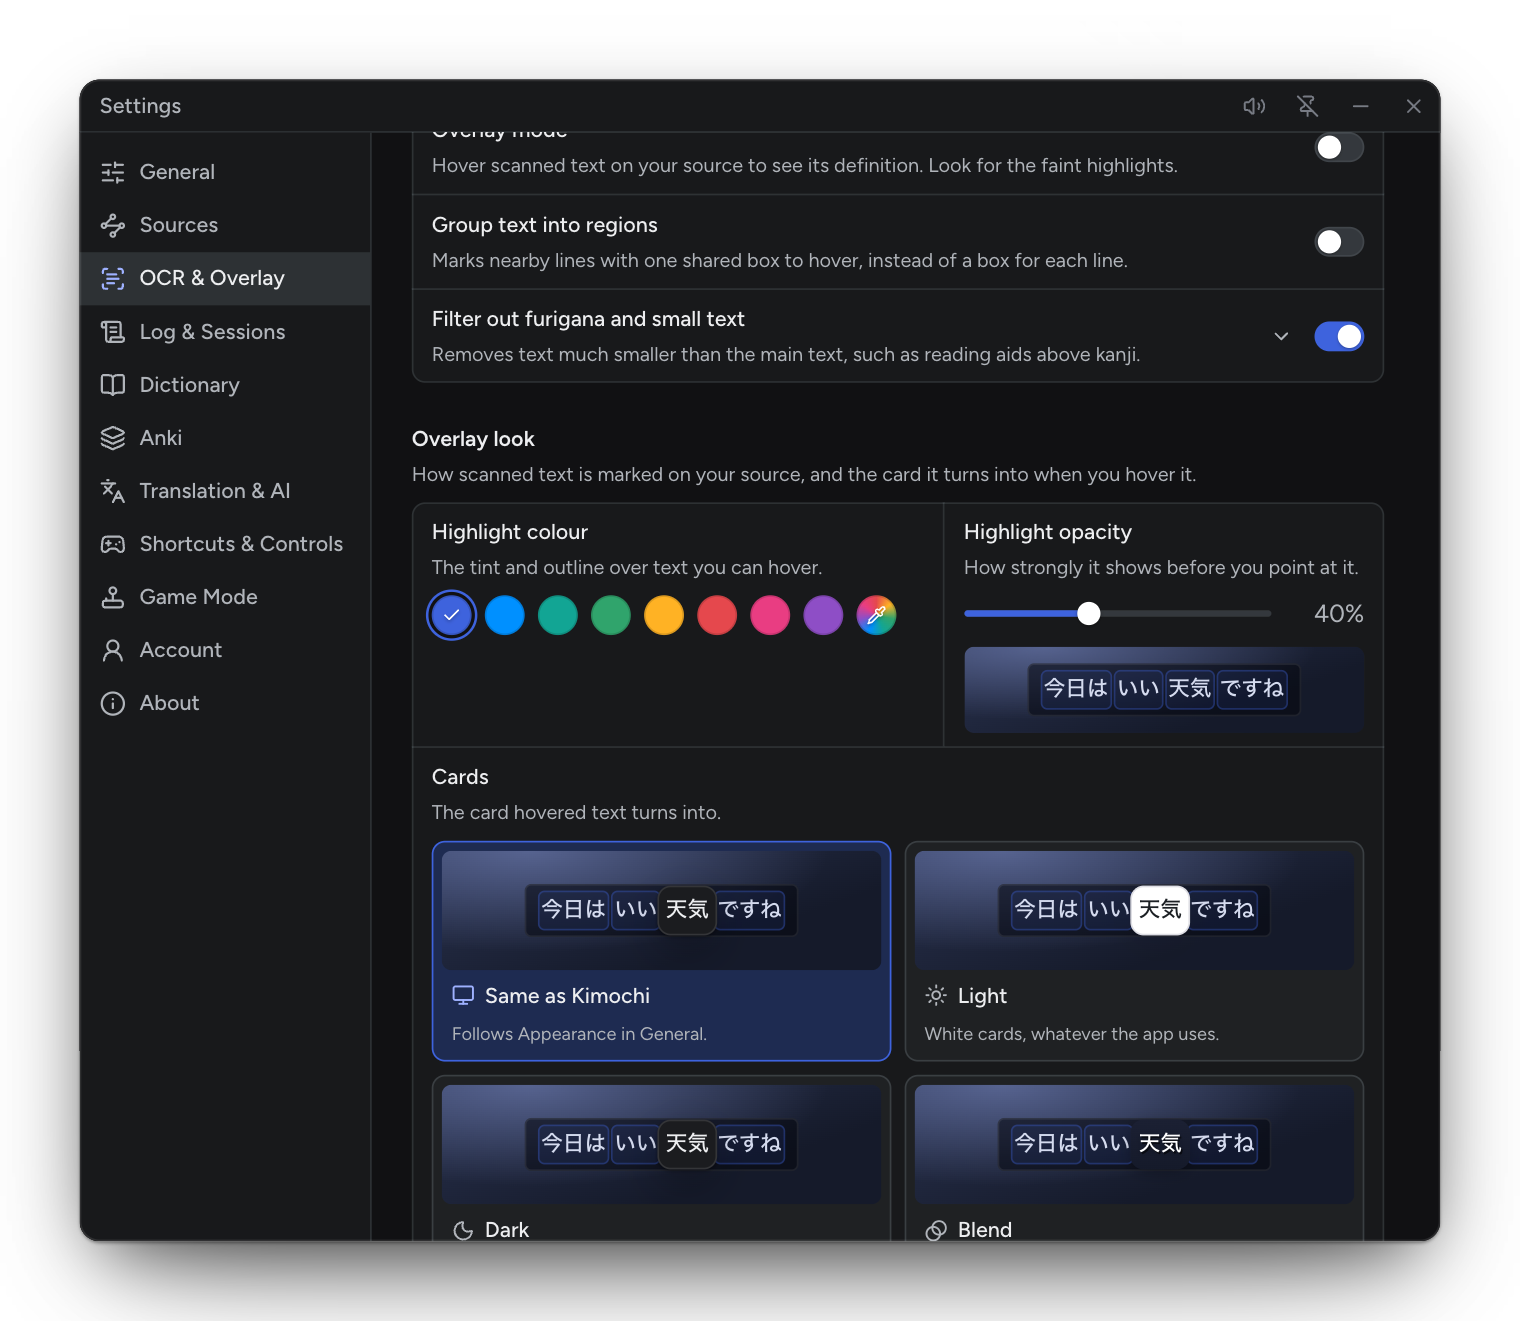
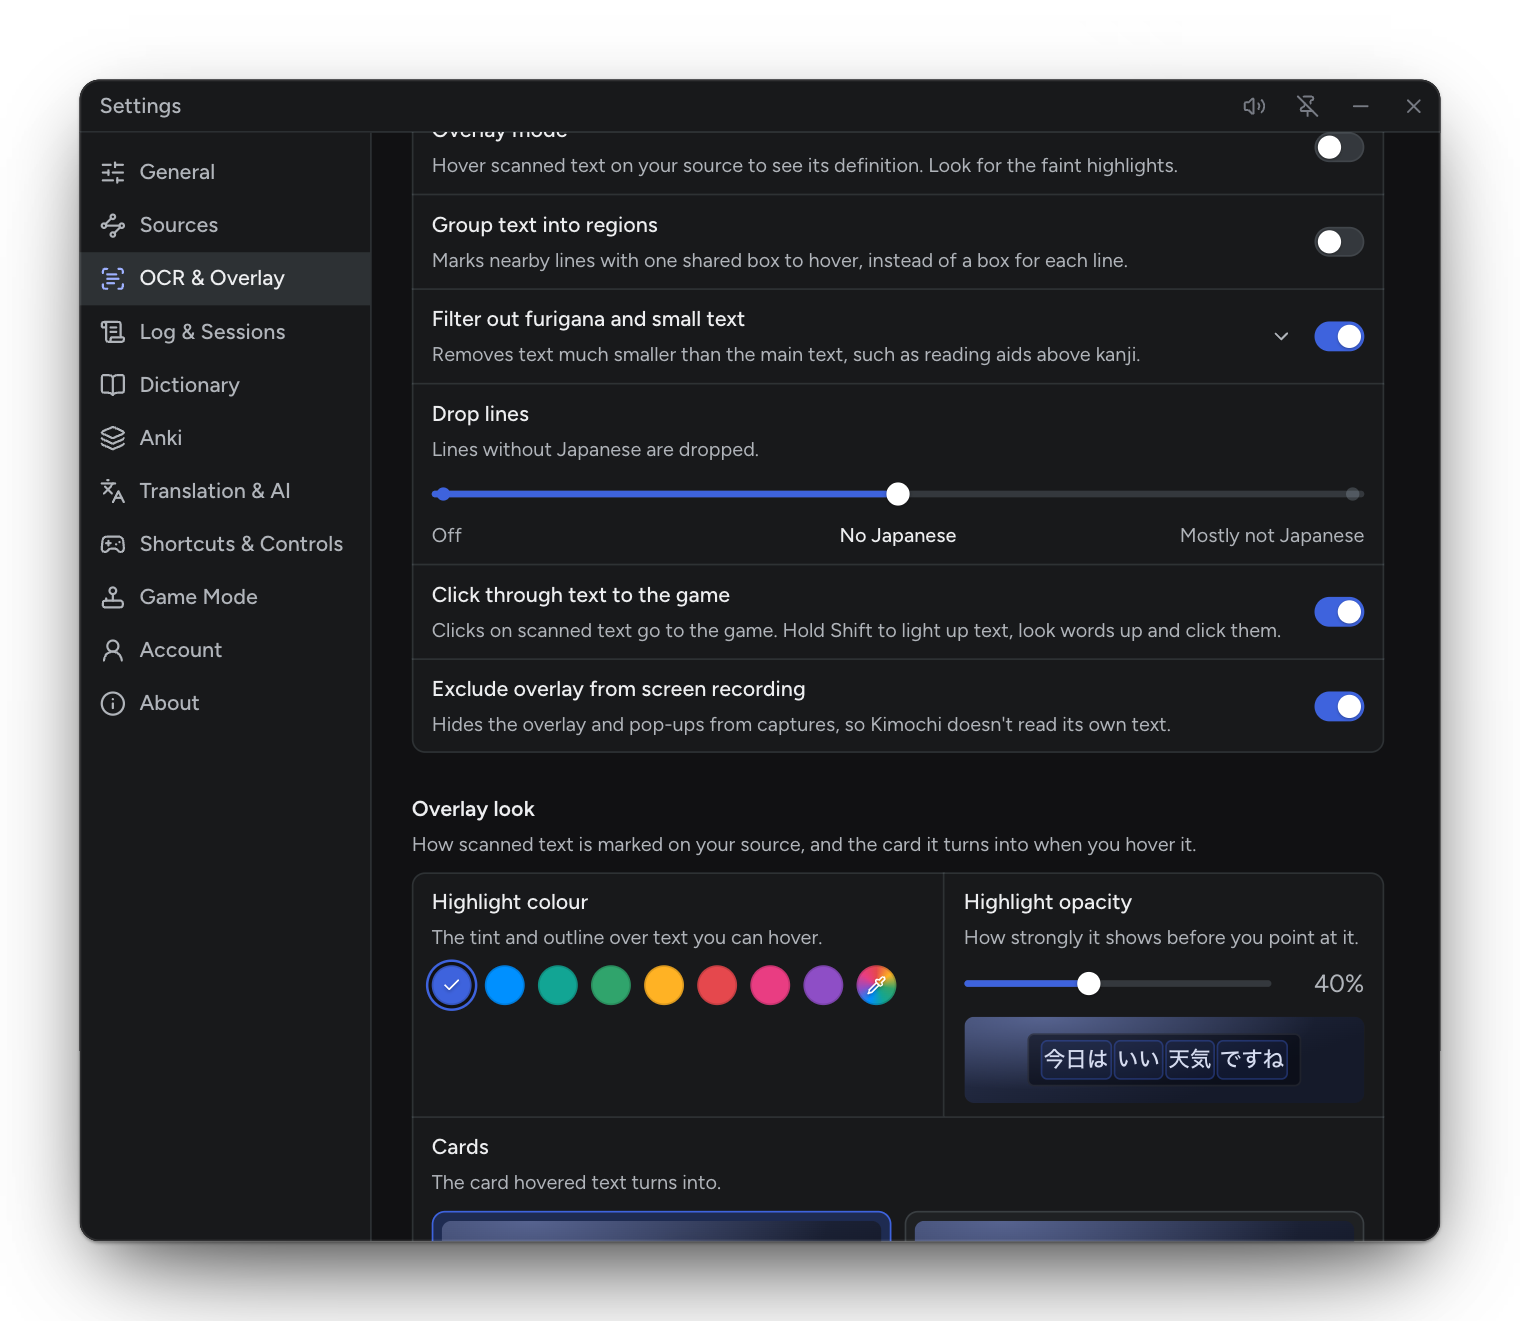
Docs: click-through overlay, hint bar, full-screen games, 10ten pop-up size
- The overlay: clicks go through text to the game unless Shift is held,
  the next click with a pop-up open only closes it, the Click through
  text to the game setting, Wayland's exception, the hint bar, and
  Exclude overlay from screen recording in the options table.
- Mini mode no longer switches on by itself: Kimochi stays on top of a
  full-screen game on its screen; Switch to mini mode brings it back.
- 10ten's Pop-up size (Compact, Medium, Large) on Dictionaries.
- Shortcuts gains an Overlay section; Troubleshooting covers clicks
  reaching the game, the hint bar, Kimochi staying on top and the Text
  Hooker; the Settings reference gets the Text Hooker tab and every new
  setting with its default.
- Retaken: Settings General and OCR & Overlay; new: 10ten's settings.
  DOCS_TODO lists the overlay shots the harness can't draw.

Changed region(s): [[0.2783, 0.5897, 0.8967, 0.9621], [0.2783, 0.3104, 0.8967, 0.5587], [0.8658, 0.7139, 0.8967, 0.7449]]

diff --git a/site-docs/DOCS_TODO.md b/site-docs/DOCS_TODO.md
@@ -8,6 +8,17 @@ page with `<Todo>TODO(hamish): …</Todo>`, which shows as a dashed box in the d
 
 Nothing open. All questions were answered on 2026-10-22.
 
+## Screenshots the pipeline can't draw yet
+
+The preview harness has no overlay, so these are described in text with a "Screenshot to come"
+note on the page:
+
+- **The Text Hooker's card over a game** (`reading/text-hooker`), ideally with Auto align on and the
+  card's −, + and ⋯ controls showing.
+- **The overlay's hint bar** ("Hold Shift to look up words and click text", `reading/overlay`).
+- **The sidebar's Auto align switch** under Show overlay for a hooked game: the harness's `hook-card`
+  shot has the overlay off, so the switch isn't in it.
+
 ## Things the docs left out on purpose
 
 - **Custom OCR endpoint.** The app can read one from its settings file, but there is no setting for
